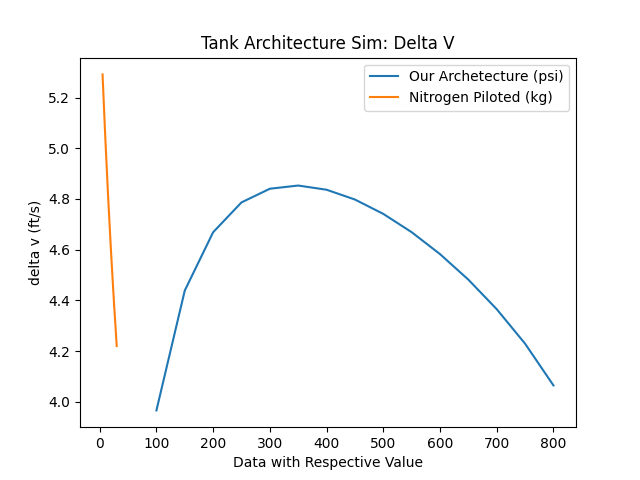
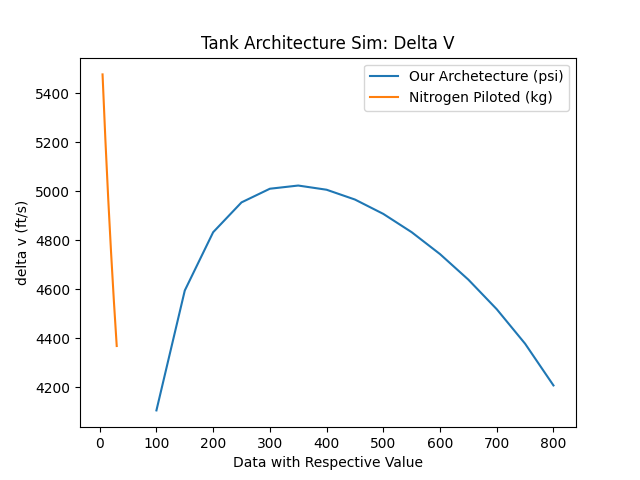
fixed delta v calc

diff --git a/tank_pressure_sim/delta_v_from_pressure.py b/tank_pressure_sim/delta_v_from_pressure.py
@@ -121,7 +121,7 @@ def residual_vapour_mass(burn_tank_end_pressure_psi, prop_tank_volume_meter_cube
 
 
 def delta_v_calc(avg_isp, wet_mass, dry_mass):
-    c = avg_isp / g_imp
+    c = avg_isp * g_imp
     dv_ft_per_sec = c * np.log(wet_mass/dry_mass)
     return dv_ft_per_sec
 
